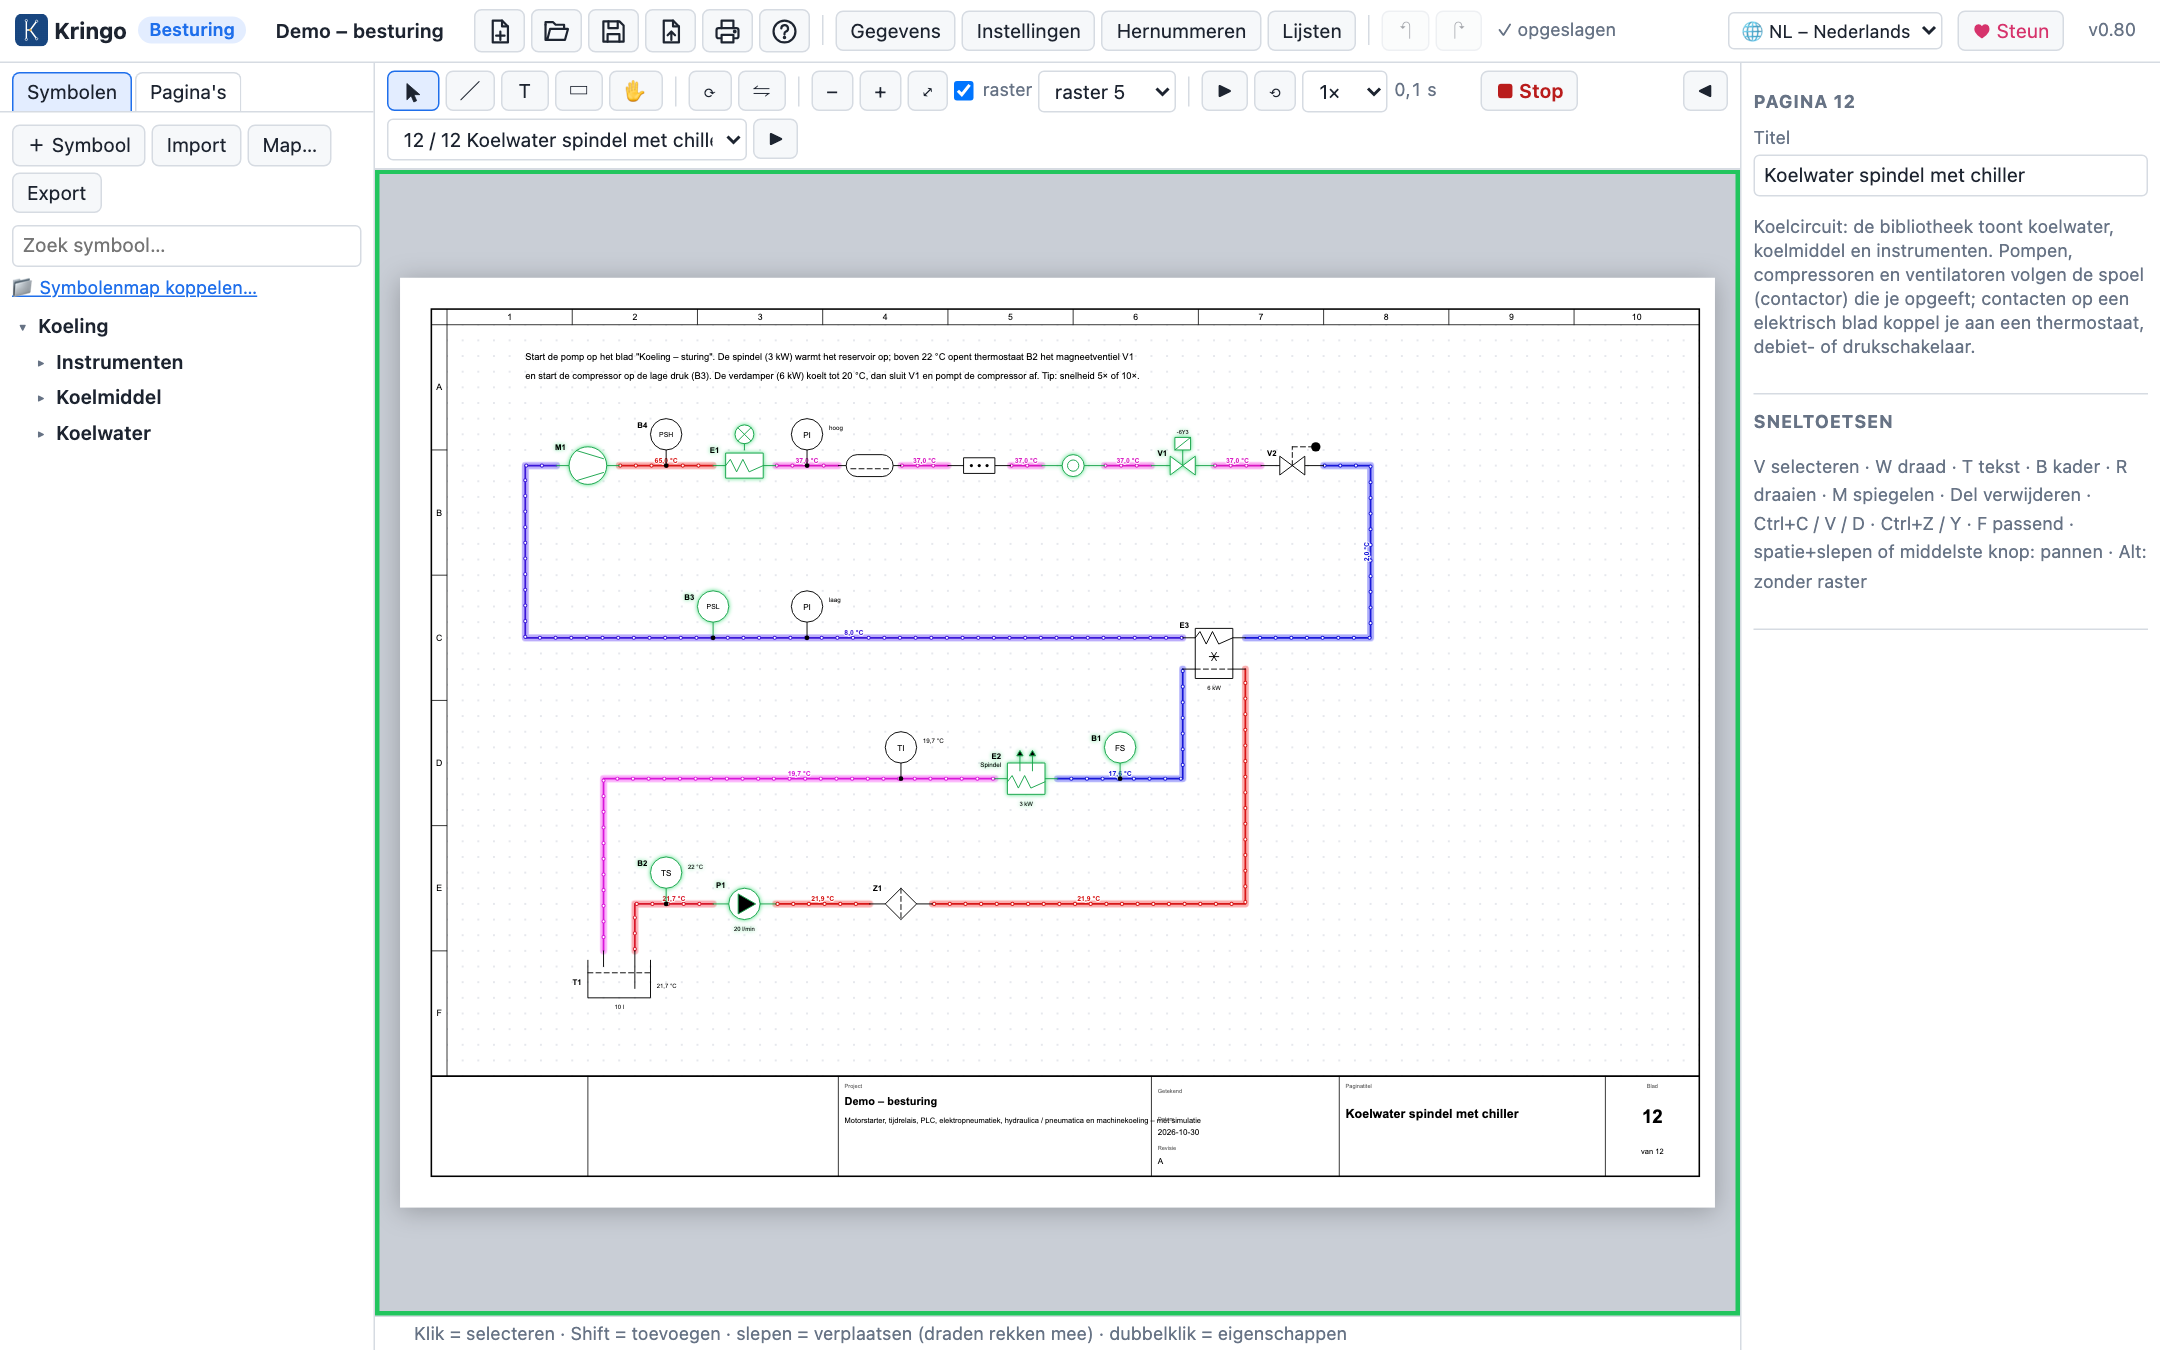
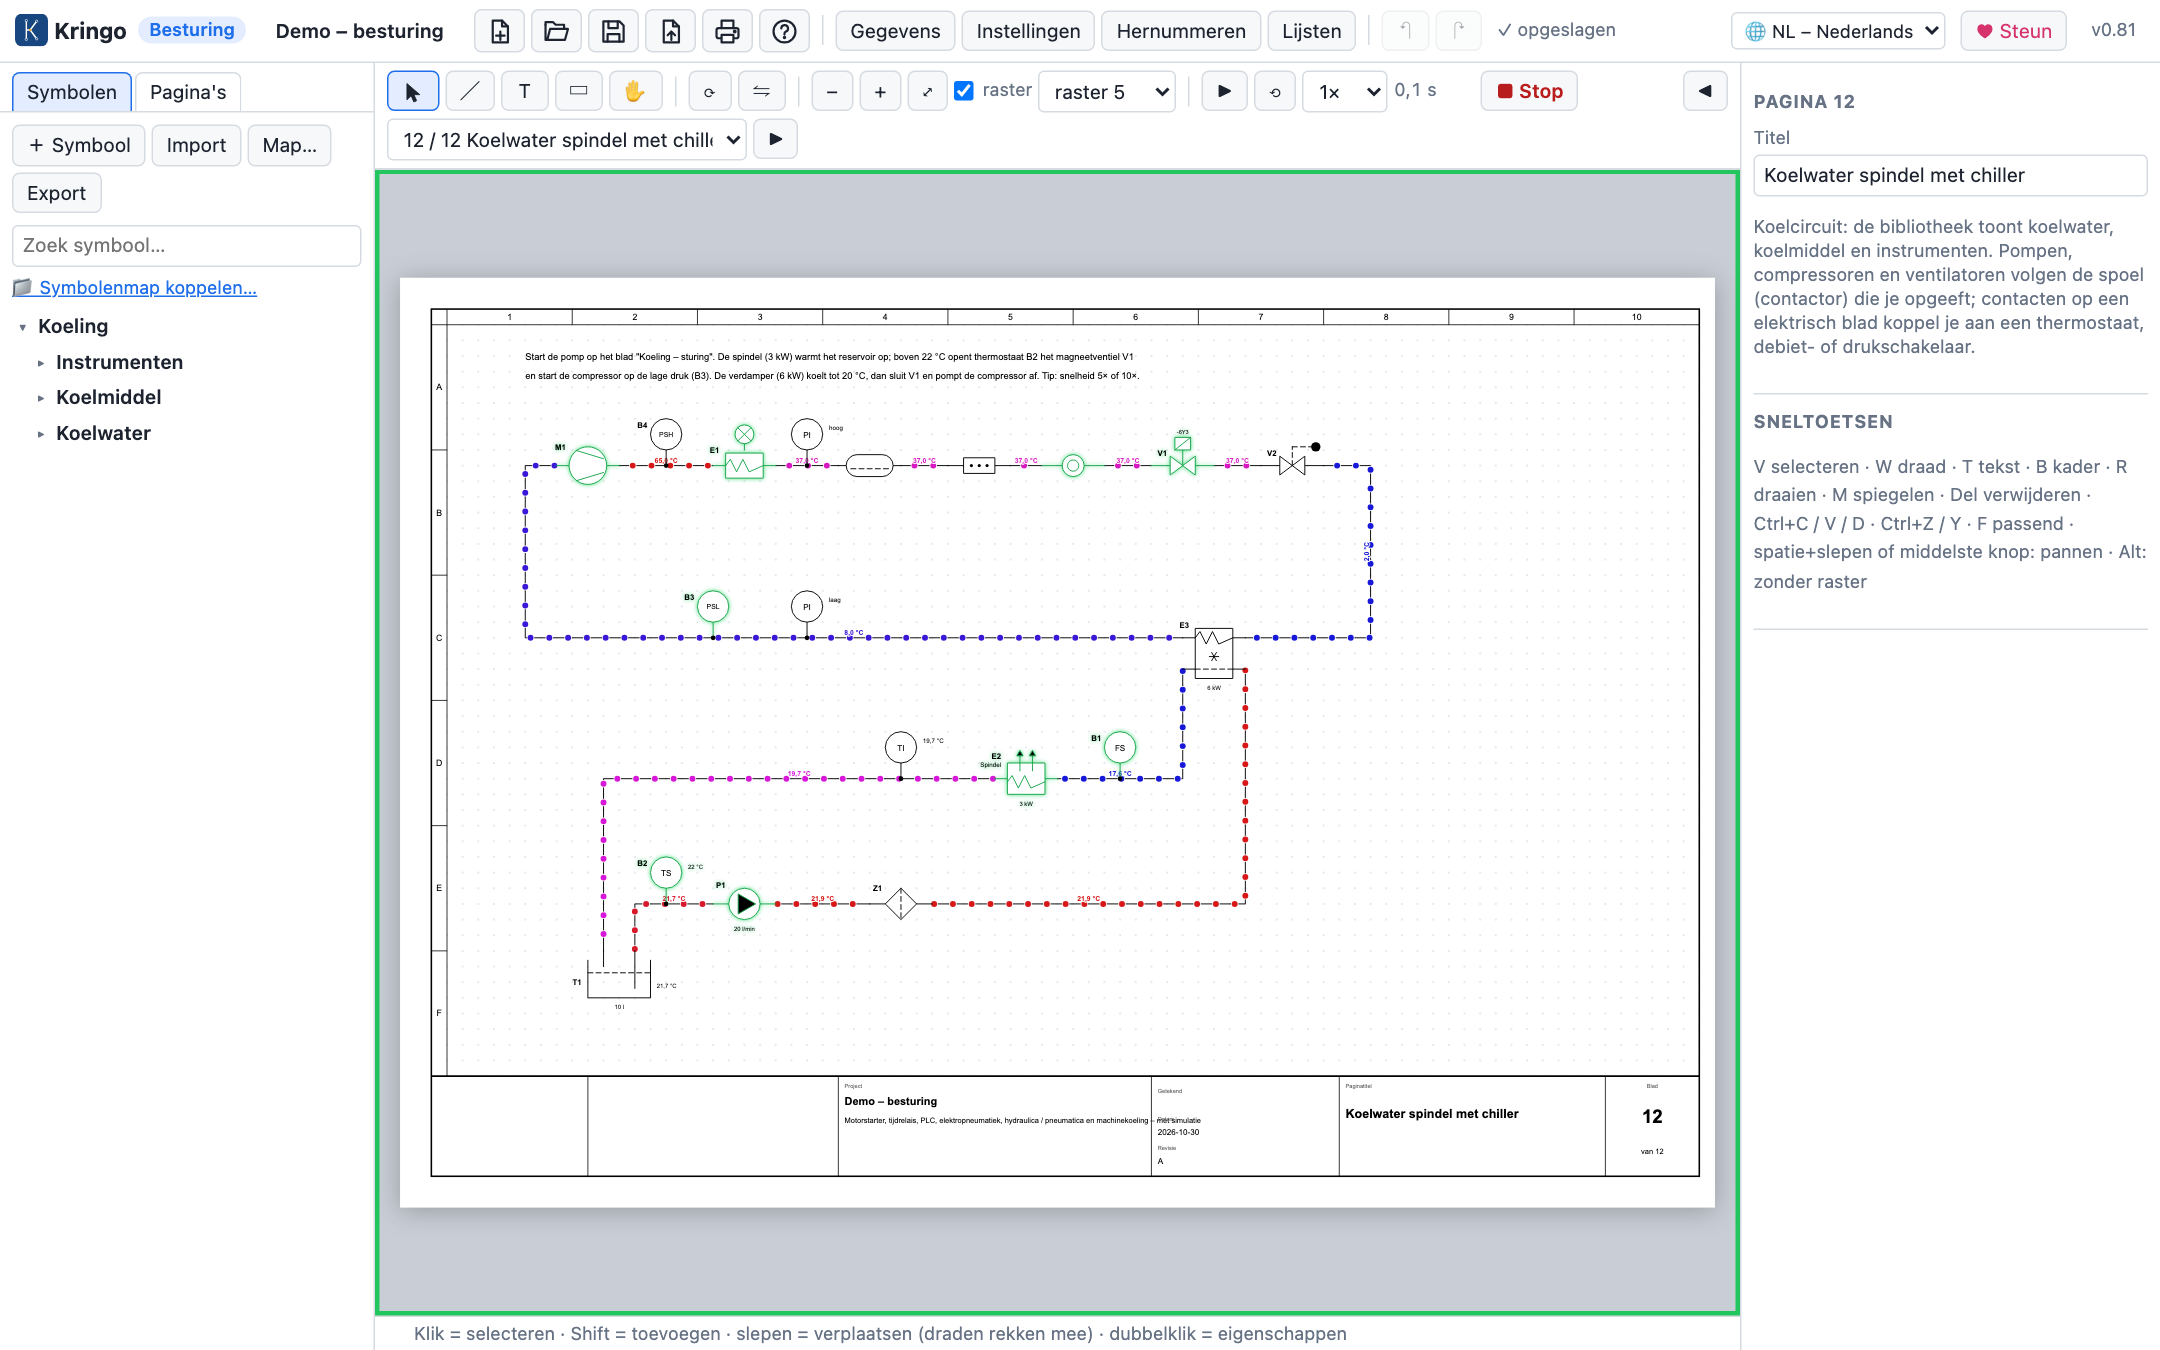
Cooling simulation: coloured flow dots instead of coloured pipes, no glow (0.81)

diff --git a/src/schematic/render.js b/src/schematic/render.js
@@ -178,10 +178,10 @@ function wireSvg(w, an, opts) {
   const own = wireColor(w.color);
   const sim = opts.sim?.wireState(w.id);
   // simulation colours: pressure side red, return side blue, live control wires green
-  // cooling lines bring their own colour (temperature gradient) and a temperature label
-  const SIMC = sim && typeof sim === 'object' ? [sim.c, sim.g] : { p: ['#ef4444', '#f87171'], v: ['#2563eb', '#60a5fa'], e: ['#22c55e', '#4ade80'] }[sim];
+  // cooling lines keep their normal look: the temperature colour goes to the flow dots and the label
+  const SIMC = sim && typeof sim === 'object' ? null : { p: ['#ef4444', '#f87171'], v: ['#2563eb', '#60a5fa'], e: ['#22c55e', '#4ade80'] }[sim];
   const color = SIMC ? SIMC[0] : own || (opts.project.settings.colorWires !== false ? net?.railColor : null);
-  const st = (color ? `stroke:${color};` : '') + (sim ? 'stroke-width:0.55;' : w.w ? `stroke-width:${w.w};` : '');
+  const st = (color ? `stroke:${color};` : '') + (SIMC ? 'stroke-width:0.55;' : w.w ? `stroke-width:${w.w};` : '');
   // simulation: active lines glow green (a wide, pulsing halo under the line)
   let out = `<g class="wire${sel ? ' sel' : ''}" data-k="w:${w.id}">${SIMC ? `<polyline class="simglow" points="${pts}" style="stroke:${SIMC[1]}"/>` : ''}<polyline class="wl" points="${pts}"${st ? ` style="${esc(st)}"` : ''}/>`;
   if (String(w.color).toUpperCase() === 'GNYE') out += `<polyline class="wl gnye" points="${pts}" style="stroke:#e0c000" stroke-dasharray="2 2"/>`;
@@ -189,7 +189,7 @@ function wireSvg(w, an, opts) {
     // flow dots (simulation): a dotted line in the flow direction, shifted with the distance travelled
     const dp = (sim.dots.fwd ? w.points : [...w.points].reverse()).map((p) => p.join(',')).join(' ');
     const da = `stroke-dasharray:0 ${sim.dots.gap};stroke-dashoffset:${r2(sim.dots.off)}`;
-    out += `<polyline class="simdots" points="${dp}" style="stroke:${sim.c};${da}"/><polyline class="simdots in" points="${dp}" style="${da}"/>`;
+    out += `<polyline class="simdots edge" points="${dp}" style="${da}"/><polyline class="simdots" points="${dp}" style="stroke:${sim.c};${da}"/>`;
   }
   if (sim?.label) {
     const pos = wireLabelPos(w.points);

diff --git a/src/cooling/sim.js b/src/cooling/sim.js
@@ -28,7 +28,7 @@ const SENSOR_TAU = 3; // s, time constant of a thermostat bulb (in a thermowell)
 const PUMPDOWN = 2; // s, suction pressure falls / rises over about this time
 const HP_TIME = 2.5; // s, until a missing condenser trips the high-pressure switch
 const SENSORS = ['tempsw', 'flowsw', 'levelsw', 'hp', 'lp'];
-const DOT_SPACING = 5; // mm between the flow dots on a line
+const DOT_SPACING = 6; // mm between the flow dots on a line
 const DOT_SPEED = 0.6; // mm/s on the sheet per l/min of flow
 const REF_DOT_SPEED = 12; // mm/s for refrigerant lines
 
@@ -482,8 +482,8 @@ export class Cooling {
   }
 
   /**
-   * Colour and label of a cooling line: from blue (coldest) to red (warmest line of the same medium),
-   * with the temperature on the longest wire of the line and moving flow dots; null when nothing flows.
+   * Colour of the flow dots of a cooling line, from blue (coldest) to red (warmest line of the same medium),
+   * with the temperature on the longest wire of the line; null when nothing flows.
    */
   wireState(net, wireId) {
     if (!this.flow.has(net) && !this.high.has(net) && !this.low.has(net)) return null;

diff --git a/styles.css b/styles.css
@@ -525,8 +525,8 @@ body.simulating #canvas { box-shadow: inset 0 0 0 3px #22c55e; }
 .ink .comp.sim-act line, .ink .comp.sim-act path, .ink .comp.sim-act rect:not(.hit), .ink .comp.sim-act circle { stroke: #16a34a; }
 .ink .comp.sim-on, .ink .comp.sim-act { filter: drop-shadow(0 0 0.6px #4ade80); }
 .ink .comp.sim-lamp circle { fill: #fde047; }
-.ink polyline.simdots { fill: none; stroke-width: 1.3; stroke-linecap: round; pointer-events: none; }
-.ink polyline.simdots.in { stroke: #fff; stroke-width: 0.7; }
+.ink polyline.simdots { fill: none; stroke-width: 1.9; stroke-linecap: round; pointer-events: none; }
+.ink polyline.simdots.edge { stroke: #fff; stroke-width: 2.4; }
 .ink text.simtemp { font-weight: 700; paint-order: stroke; stroke: #fff; stroke-width: 0.6px; stroke-linejoin: round; }
 .ink .comp.sim-warn line, .ink .comp.sim-warn path, .ink .comp.sim-warn rect:not(.hit), .ink .comp.sim-warn circle { stroke: #dc2626; }
 .ink .comp.sim-warn { filter: drop-shadow(0 0 0.8px #f87171); }

diff --git a/docs/HANDLEIDING.md b/docs/HANDLEIDING.md
@@ -373,8 +373,7 @@ Debiet, vermogens en inhoud staan ook bij het symbool. Elk onderdeel verandert d
 **Simuleren**
 
 - Een draaiende pomp laat het water stromen door alle leidingen die op een open weg van de pers- naar de zuigzijde liggen; bij een aftakking verdeelt het debiet zich, bij een samenkomst mengt het water.
-- Op elke stromende leiding staat de **temperatuur** en de kleur loopt van **blauw** (koudste leiding) naar **rood** (warmste), apart voor het koelwater en het koelmiddel.
-- **Stroombolletjes** lopen over de leidingen in de richting van de stroming; hun snelheid volgt het debiet van de pomp (en de simulatiesnelheid). Ook een leiding die tegen de stroomrichting in getekend is, toont de juiste richting.
+- Op elke stromende leiding staat de **temperatuur**, en **stroombolletjes** lopen over de leiding in de richting van de stroming. Hun kleur loopt van **blauw** (koudste leiding) naar **rood** (warmste), apart voor het koelwater en het koelmiddel; hun snelheid volgt het debiet van de pomp (en de simulatiesnelheid). Ook een leiding die tegen de stroomrichting in getekend is, toont de juiste richting.
 - In de koelmiddelkring is alles van de compressor tot het expansieventiel de **hogedrukzijde** (persgas, vloeistofleiding), de rest de **lagedrukzijde** (na het expansieventiel, zuigleiding).
 - **Afpompen:** sluit het magneetventiel terwijl de compressor draait, dan daalt de zuigdruk en valt de lagedrukpressostaat af; gaat het ventiel weer open, dan stijgt de druk en start de compressor opnieuw. Een compressor zonder werkende condensor (ventilator uit, geen koelwater) bouwt een hogedrukstoring op.
 - Klik op een pomp, compressor of klep om ze met de hand te bedienen, op een **verbruiker** om de machine stil te zetten, op een **niveauschakelaar** om een te laag niveau na te bootsen. Een verbruiker zonder debiet kleurt rood.
